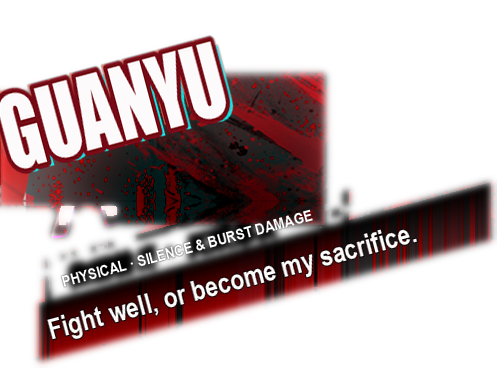
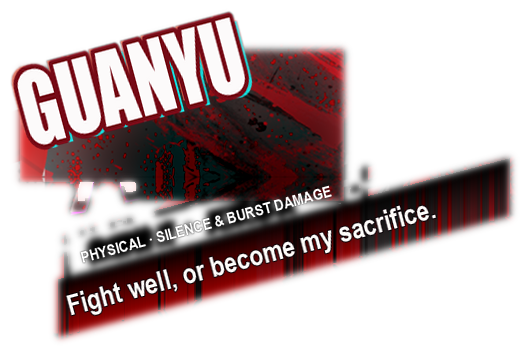
docs(memory): 测试服部署全链路 + AbstractActivity 奖励配置不存在判定口径

diff --git a/scripts/image/loading_plate_overlay.py b/scripts/image/loading_plate_overlay.py
@@ -37,6 +37,17 @@
 3. **排字**：标签用 Arial Bold 白字（红底），台词用深棕字 + 1px 浅米描边（亮底），
    按实测倾角跟随斜排；超宽自动降字号（`fit_font`）。
 
+🔴 **贴片 bbox 由「实际墨迹」反推，不由版面几何推**。斜排 15° + 纵向拉伸之后，大字
+   的左上角会跑到 `name_box` 的左外侧（h/2·sinθ）和上外侧（w·sinθ + h/2·cosθ）——
+   按 `name_box` / 红条几何算出来的贴片会把这两块裁掉，表现就是预览里字母顶一道
+   齐刷刷的直线（05 的 BRUTUS 曾切掉顶部 46px、左边 16px，03 切 26px、07 切 41px）。
+   现在的口径：
+   - 贴片 = 红条 ∪ 台词带 ∪ `name_box` ∪ `small_box` ∪ 擦除区 ∪ 三条线的墨迹，再外扩
+     `PLATE_PAD`，并夹在 684×2048 内；
+   - 大字另外受 `NAME_HEADROOM`（名字区上沿 = `name_box` 顶 - 92）约束，超出就降字号，
+     保证英文大字不会顶到画板上沿；
+   - `geom.json` 里的 `ink_clip_px` = 墨迹被画板边界削掉的像素，`verify` 会卡它必须为 0。
+
 🔴 中文名不翻、也不覆盖：九张图里中文名旁边本来就挂着英文名（Caesar / GuanYu /
    Mozart …），盖掉中文名反而丢了设计层级。贴片只碰红条与台词两行。
 
@@ -105,11 +116,16 @@ NAME_FONT_CANDIDATES = [
 ]
 
 FEATHER = 10          # 贴片 alpha 羽化宽度
+# 译文可能存在的语言。贴片 bbox 要对**这几种取并集**：`LoadingPlateGeom.lua` 一张图
+# 只存一组 anchor，运行时按图号取（见 LoadingPanel.ApplyLangPlate），没有按语言分表 ——
+# 贴片 bbox 一旦随译文长度变，换语言就整体错位/被裁。
+LANGS = ("en", "jp", "kr")
 BAR_PAD = 6           # 红条内擦字范围外扩（把描边/发光一起吞掉）
 BAND_TOP_INSET = 7    # 台词带的上沿往红条里吃的像素数：中文台词的句号比带子上沿还高
 NAME_BLEED = 17       # 大字擦除外扩：白描边 ≈8px + 青/品红错位 ≈6px + 抗锯齿
-NAME_HEADROOM = 92    # 贴片往上多留的高度：斜排+拉伸后的英文字会高出 name_box 很多
+NAME_HEADROOM = 92    # 名字区上沿到 name_box 顶边的余量：斜排大字越宽抬得越高，这条是硬上限
 NAME_LIFT = 14        # 英文大字整体上移，躲开斜条右端（斜条右端比左端高 100+px）
+PLATE_PAD = 6         # 贴片边界相对「几何区 ∪ 墨迹」再外扩的像素，别让字贴着裁切线
 
 # 实测版面（cn2-X1_loading_04_zh，684×2048）。红条是平行四边形：
 #   上边线 y = top_y_at_x_left + slope*(x - x_left)，高恒为 bar_h。
@@ -302,6 +318,22 @@ def line_layer(text: str, font, fill=(255, 255, 255, 255), stroke=2,
            stroke_width=stroke, stroke_fill=stroke_fill)
     bb = layer.split()[3].getbbox() or (0, 0, lw, lh)
     return layer, bb, ((bb[0] + bb[2]) / 2, (bb[1] + bb[3]) / 2)
+
+
+def layer_ink_quad(lay: Image.Image, anchor, ang: float, target) -> np.ndarray:
+    """图层**墨迹**四角经「绕 anchor 旋转 + 平移」后在底图坐标系里的位置。
+
+    用来反推贴片 bbox。🔴 必须用墨迹 bbox（alpha 外接框），不能用图层尺寸：
+       图层四周有 stroke+14 的透明留白，按图层算会把贴片撑大 30~40px，
+       而按几何（name_box / 红条）算又会把斜排溢出的那截字裁掉 —— 两头都不对。
+    """
+    bb = lay.split()[3].getbbox() or (0, 0, lay.width, lay.height)
+    corners = np.array([[bb[0], bb[1]], [bb[2], bb[1]],
+                        [bb[2], bb[3]], [bb[0], bb[3]]], np.float32)
+    M = cv2.getRotationMatrix2D(anchor, ang, 1.0)
+    M[0, 2] += target[0] - anchor[0]
+    M[1, 2] += target[1] - anchor[1]
+    return cv2.transform(corners[None], M)[0]
 
 
 def paste_rotated(dst: Image.Image, lay: Image.Image, anchor, ang: float, target) -> Image.Image:
@@ -588,6 +620,117 @@ def multiscale_fill(img: np.ndarray, mask: np.ndarray, levels: int = 5) -> np.nd
 
 
 # --------------------------------------------------------------------------- #
+# 排版（只排字，不碰底图）
+# --------------------------------------------------------------------------- #
+def build_lines(asset: str, lang: str, layout: dict, W: int, H: int,
+                q_fill=(255, 255, 255), q_stroke=(0, 0, 0)):
+    """按版面排三条线（大字 / 标签 / 台词），返回 [(图层, 锚点, 角度, 底图落点)]。
+
+    只排字、不碰底图像素：同一份结果既用来画贴片，也用来反推贴片 bbox（见 `plate_box`）。
+    颜色不影响墨迹外接框，所以量 bbox 时用默认色即可。
+
+    🔴 落点一律是**底图坐标**（不是贴片坐标）：贴片 bbox 要靠墨迹反推，而墨迹位置又
+       跟贴片原点无关 —— 先定落点、再定画布，顺序反过来就会自己咬自己。
+    """
+    entry = load_map().get(asset, {})
+    tag = entry.get(f"tag_{lang}") or ""
+    quote = entry.get(f"quote_{lang}") or ""
+    name = entry.get(f"name_{lang}") or ""
+    tilt = float(np.degrees(np.arctan(-layout["slope"])))
+    items = []
+
+    # 3z) 大号角色名：Impact 超粗压缩体 + 故障风错位
+    if name:
+        nb = [int(v) for v in layout["name_box"]]
+        # 🔴 宽度上限按**画板右边界**算，不按 small_box 算：小号英文名先被擦掉，那块横向
+        #    空间是空的；按 small_box 算会让 9 张的英文宽度从 245 到 415 不等、字号差一倍
+        #    （GUANYU 挤成小字、BRUTUS 撑成大字）。改成「高 145 + 不越出画板」双约束，
+        #    九张的英文字高就统一了。
+        max_w = name_max_w(layout, W)
+        # 整行上移 NAME_LIFT：红条是斜的，右端抬得比左端高 100+px，英文比中文宽之后
+        # 右端会顶到条上；上移一点点就能让整行稳稳落在条上方的空白带里。
+        tgt = (nb[0], (nb[1] + nb[3]) / 2 - NAME_LIFT)
+        ang = tilt if layout.get("name_angle") is None else float(layout["name_angle"])
+        # 🔴 缩到「旋转后真的不越出**名字区**」为止。fit_font 只管**没旋转**的墨迹
+        #    宽高，斜排 15° 之后整行右端会再抬高 w·sinθ，宽一个字母就多抬 10+px ——
+        #    05 的 BRUTUS 就这么顶出画板上沿 8px，03/07 顶出 26/41px。
+        #    NAME_HEADROOM 就是这条硬上限（名字区上沿 = name_box 顶 - 92），
+        #    以前只在算贴片 bbox 时用过、没约束字本身，所以字照样往外长。
+        top_limit = nb[1] - NAME_HEADROOM
+        start = 230
+        while True:
+            font = fit_font(name, max_w, 145, start=start, loader=load_name_font)
+            lay, anchor = name_layer(name, font, layout)
+            q = layer_ink_quad(lay, anchor, ang, tgt)
+            over = max(top_limit - q[:, 1].min(),
+                       -q[:, 0].min(), q[:, 0].max() - (W - 1),
+                       -q[:, 1].min(), q[:, 1].max() - (H - 1))
+            if over <= 0 or font.size <= 24:
+                break
+            start = max(24, font.size - max(1, int(round(over))))
+        items.append((lay, anchor, ang, tgt))
+
+    # 3a) 定位标签：贴着红条左端进一点，垂直居中于条带
+    if tag:
+        tx = layout["x_left"] + 12
+        font = fit_font(tag, int(layout["x_right"] - tx - 12),
+                        int(layout["bar_h"] * 0.62), start=int(layout["bar_h"] * 0.52))
+        lay, bb, ink_c = line_layer(tag, font, stroke=0, stroke_fill=(112, 16, 8, 255))
+        # 左中点对齐：标签左端钉在条带左端的中心线上
+        items.append((lay, (bb[0], ink_c[1]), tilt,
+                      (tx, top_y(layout, tx) + layout["bar_h"] / 2)))
+
+    # 3b) 台词：红条下边线往下 quote_h 的带子，左端对齐
+    if quote:
+        qx_left = layout["quote_x_left"] + 10
+        font = fit_font(quote, int(layout["quote_x_right"] - qx_left - 8),
+                        int(layout["quote_h"] * 0.72), start=int(layout["quote_h"] * 0.56))
+        # 描边只给 1px：描边过粗会把 20px 的字芯整个包住、看起来变成白字。
+        lay, bb, ink_c = line_layer(quote, font, fill=tuple(q_fill) + (255,), stroke=1,
+                                    stroke_fill=tuple(q_stroke) + (255,))
+        # 左中点对齐（见 paste_rotated 注释）：台词左端钉在带子左端的中心线上
+        items.append((lay, (bb[0], ink_c[1]), tilt,
+                      (qx_left, bot_y(layout, qx_left) + layout["quote_h"] / 2)))
+    return items
+
+
+def plate_box(asset: str, layout: dict, W: int, H: int, changed: np.ndarray | None = None):
+    """贴片 bbox（底图像素）＝ 红条 ∪ 台词带 ∪ 擦除区 ∪ **所有语言**的墨迹，再外扩 PLATE_PAD。
+
+    🔴 必须对 `LANGS` 全部取并集，不能只按当前语言算：`LoadingPlateGeom.lua` 一张图
+       只存一组 anchor，运行时按图号取（LoadingPanel.ApplyLangPlate），没有按语言分表。
+       bbox 跟着译文长度变，换语言就整体错位或被裁。所以小字擦除框也按「最长译名」
+       推（见 render），保证擦除区同样与语言无关。
+
+    🔴 墨迹要按**旋转后**的四边形算（`layer_ink_quad`）：斜排 15° + 纵向拉伸后，
+       大字的左上角会跑到 name_box 的左外侧（h/2·sinθ）和上外侧（w·sinθ + h/2·cosθ）。
+       按几何推的贴片会把这两块裁掉 —— 实测 05 的 BRUTUS 顶部被切 46px、左边 16px
+       （字母顶是一道齐刷刷的直线），03 切 26px、07 切 41px。
+    """
+    pb, pq = poly_bar(layout), poly_quote(layout)
+    pts = [pb, pq]
+    for key in ("name_box", "small_box"):
+        b = layout.get(key)
+        if b:
+            bx0, by0, bx1, by1 = [float(v) for v in b]
+            pts.append(np.array([[bx0, by0], [bx1, by0], [bx1, by1], [bx0, by1]], np.float32))
+    if changed is not None:
+        ys_c, xs_c = np.nonzero(changed)     # grow_mask 可能长出 name_box 30px
+        if ys_c.size:
+            pts.append(np.array([[xs_c.min(), ys_c.min()], [xs_c.max() + 1, ys_c.min()],
+                                 [xs_c.max() + 1, ys_c.max() + 1], [xs_c.min(), ys_c.max() + 1]],
+                                np.float32))
+    for lang in LANGS:
+        for lay, anchor, ang, tgt in build_lines(asset, lang, layout, W, H):
+            pts.append(layer_ink_quad(lay, anchor, ang, tgt))
+    allp = np.vstack(pts)
+    return (max(0, int(np.floor(allp[:, 0].min())) - PLATE_PAD),
+            max(0, int(np.floor(allp[:, 1].min())) - PLATE_PAD),
+            min(W, int(np.ceil(allp[:, 0].max())) + PLATE_PAD),
+            min(H, int(np.ceil(allp[:, 1].max())) + PLATE_PAD))
+
+
+# --------------------------------------------------------------------------- #
 # 主流程
 # --------------------------------------------------------------------------- #
 def render(asset: str, lang: str, layout: dict) -> dict:
@@ -602,10 +745,14 @@ def render(asset: str, lang: str, layout: dict) -> dict:
     quote = entry.get(f"quote_{lang}") or ""
     name = entry.get(f"name_{lang}") or ""
 
-    # 小字的擦除框跟着大字推（见 derive_small_box），不依赖 layout 里手写的值
-    if name and not layout.get("small_box"):
+    # 小字的擦除框跟着大字推（见 derive_small_box），不依赖 layout 里手写的值。
+    # 🔴 按**所有语言里最长的译名**推：擦除框一变，贴片 bbox 就跟着变，而 anchor 是
+    #    一张图一组（不按语言分表），所以这块必须与语言无关。
+    names = [entry.get(f"name_{l}") or "" for l in LANGS]
+    longest = max(names, key=len) if any(names) else ""
+    if longest and not layout.get("small_box"):
         layout = dict(layout)
-        layout["small_box"] = derive_small_box(layout, name, W)
+        layout["small_box"] = derive_small_box(layout, longest, W)
 
     pb, pq = poly_bar(layout), poly_quote(layout)
 
@@ -661,83 +808,27 @@ def render(asset: str, lang: str, layout: dict) -> dict:
     else:
         q_fill, q_stroke = (252, 250, 246), (24, 14, 20)      # 暗底：白字深描边
 
-    # --- 3) 贴片画布：先放干净背景，再叠译文 ------------------------------- #
-    # 上边界要多留 NAME_HEADROOM：斜排 + 纵向拉伸后的英文字会高出 name_box 不少，
-    # 贴片 bbox 卡在 name_box 上的话字顶会被裁掉（实测「GUANYU」上半截直接没了）。
-    nb = [int(v) for v in layout["name_box"]]
-    top = nb[1] - NAME_HEADROOM
-    right = max(nb[2], nb[0] + name_max_w(layout, W) + 14)
-    corners = [[nb[0], top], [right, top], [right, nb[3]], [nb[0], nb[3]]]
-    sb = layout.get("small_box")
-    if sb:
-        corners += [[sb[0], sb[1]], [sb[2], sb[1]], [sb[2], sb[3]], [sb[0], sb[3]]]
-    pts = np.vstack([pb, pq, np.array(corners, dtype=np.float32)])
-    x0 = max(0, int(np.floor(pts[:, 0].min())) - 2)
-    y0 = max(0, int(np.floor(pts[:, 1].min())) - 2)
-    x1 = min(W, int(np.ceil(pts[:, 0].max())) + 2)
-    y1 = min(H, int(np.ceil(pts[:, 1].max())) + 2)
+    # --- 3) 排版：先在**底图坐标**里算三条线的落点，拿到各自的墨迹范围 ----- #
+    ink_items = build_lines(asset, lang, layout, W, H, q_fill, q_stroke)
+
+    # --- 4) 贴片画布 = 几何区 ∪ 擦除区 ∪ 三条线的墨迹（全语言并集）-------- #
+    x0, y0, x1, y1 = plate_box(asset, layout, W, H, changed)
     pw, ph = x1 - x0, y1 - y0
+
+    # 墨迹被**画板**边界（不是贴片边界）削掉多少：>0 说明这行字本身超出了 684×2048
+    # 的画板，贴片再大也救不回来，只能改字号或缩短文案。写进 geom 供 verify 卡。
+    ink_clip = 0
+    for lay, anchor, ang, tgt in ink_items:
+        q = layer_ink_quad(lay, anchor, ang, tgt)
+        ink_clip = max(ink_clip,
+                       int(max(0, -q[:, 0].min())), int(max(0, q[:, 0].max() - (W - 1))),
+                       int(max(0, -q[:, 1].min())), int(max(0, q[:, 1].max() - (H - 1))))
 
     plate = Image.fromarray(cv2.cvtColor(clean[y0:y1, x0:x1], cv2.COLOR_BGR2RGB)).convert("RGBA")
     ink = Image.new("RGBA", plate.size, (0, 0, 0, 0))     # 译文单独一层，最后取 alpha
-    tilt = float(np.degrees(np.arctan(-layout["slope"])))
-
-    # 3z) 大号角色名：Impact 超粗压缩体 + 故障风错位
-    #     左端对齐原中文大字的左边界、宽度吃到小号英文名的右边界 —— 小字已经被擦掉，
-    #     这块横向空间空着，正好让英文大字用满，不必挤在中文字符框里。
-    if name:
-        nb = [int(v) for v in layout["name_box"]]
-        left = nb[0]
-        # 🔴 宽度上限按**画板右边界**算，不按 small_box 算：小号英文名先被擦掉，那块横向
-        #    空间是空的；按 small_box 算会让 9 张的英文宽度从 245 到 415 不等、字号差一倍
-        #    （GUANYU 挤成小字、BRUTUS 撑成大字）。改成「高 100 + 不越出画板」双约束，
-        #    九张的英文字高就统一了。
-        max_w = name_max_w(layout, W)
-        font = fit_font(name, max_w, 145, start=230, loader=load_name_font)
-        lay, anchor = name_layer(name, font, layout)
-        ang = tilt if layout.get("name_angle") is None else float(layout["name_angle"])
-
-        # 绕锚点旋转 + 把锚点搬到目标点，一次仿射完成 —— 不用 rotate(expand=True)：
-        # expand 会按外接矩形放大画布，之后任何基于 bbox 的对齐都会被「空白边」带偏
-        # （实测整体下沉 17~30px，英文底边压到红条上）。PIL 的 AFFINE 系数是
-        # 「输出坐标 → 输入坐标」的反向映射，所以传逆矩阵。
-        # 整行再上移 NAME_LIFT：红条是斜的，右端抬得比左端高 100+px，英文比中文宽之后
-        # 右端会顶到条上；上移一点点就能让整行稳稳落在条上方的空白带里。
-        tgt = (left - x0, (nb[1] + nb[3]) / 2 - y0 - NAME_LIFT)
-        M = cv2.getRotationMatrix2D(anchor, ang, 1.0)
-        M[0, 2] += tgt[0] - anchor[0]
-        M[1, 2] += tgt[1] - anchor[1]
-        Mi = cv2.invertAffineTransform(M)
-        warped = lay.transform(plate.size, Image.AFFINE,
-                               (Mi[0, 0], Mi[0, 1], Mi[0, 2],
-                                Mi[1, 0], Mi[1, 1], Mi[1, 2]),
-                               resample=Image.BICUBIC)
-        ink = Image.alpha_composite(ink, warped)
-
-    # 3a) 定位标签：贴着红条左端进一点，垂直居中于条带
-    if tag:
-        inset = 12
-        tx = layout["x_left"] + inset
-        max_w = int(layout["x_right"] - tx - 12)
-        font = fit_font(tag, max_w, int(layout["bar_h"] * 0.62), start=int(layout["bar_h"] * 0.52))
-        lay, bb, ink_c = line_layer(tag, font, stroke=0,
-                                    stroke_fill=(112, 16, 8, 255))
-        # 左中点对齐：标签左端钉在条带左端的中心线上（target 一律是贴片内坐标，要减 x0/y0）
-        ink = paste_rotated(ink, lay, (bb[0], ink_c[1]), tilt,
-                            (tx - x0, top_y(layout, tx) + layout["bar_h"] / 2 - y0))
-
-    # 3b) 台词：红条下边线往下 quote_h 的带子，左端对齐
-    if quote:
-        qx_left = layout["quote_x_left"] + 10
-        max_w = int(layout["quote_x_right"] - qx_left - 8)
-        font = fit_font(quote, max_w, int(layout["quote_h"] * 0.72),
-                        start=int(layout["quote_h"] * 0.56))
-        # 描边只给 1px：描边过粗会把 20px 的字芯整个包住、看起来变成白字。
-        lay, bb, ink_c = line_layer(quote, font, fill=q_fill + (255,), stroke=1,
-                                    stroke_fill=q_stroke + (255,))
-        # 左中点对齐（见 paste_rotated 注释）：台词左端钉在带子左端的中心线上
-        ink = paste_rotated(ink, lay, (bb[0], ink_c[1]), tilt,
-                            (qx_left - x0, bot_y(layout, qx_left) + layout["quote_h"] / 2 - y0))
+    # 落点从底图坐标换算成贴片坐标再画（同一个仿射：绕锚点旋转 + 平移到落点）
+    for lay, anchor, ang, tgt in ink_items:
+        ink = paste_rotated(ink, lay, anchor, ang, (tgt[0] - x0, tgt[1] - y0))
 
     plate = Image.alpha_composite(plate, ink)
     text_a = np.array(ink.split()[3])
@@ -777,6 +868,8 @@ def render(asset: str, lang: str, layout: dict) -> dict:
         "plate_bbox": [x0, y0, pw, ph],
         "anchor_min": [round(x0 / W, 6), round(1 - y1 / H, 6)],
         "anchor_max": [round(x1 / W, 6), round(1 - y0 / H, 6)],
+        # 墨迹被画板边界削掉的像素数（0 = 三条线都完整落在 684×2048 内）
+        "ink_clip_px": ink_clip,
         "layout": {k: (round(v, 4) if isinstance(v, float) else v) for k, v in layout.items()},
     }
     with open(os.path.join(out_dir, "geom.json"), "w", encoding="utf-8") as f:
@@ -799,7 +892,8 @@ LUA_GEOM = os.path.join(ROOT, "Assets/ManagedResources/~Lua/Modules/Message/Load
 
 LUA_GEOM_TPL = """-- 由 scripts/image/loading_plate_overlay.py publish 自动生成，勿手改。
 -- 铭牌贴片在底图中的归一化锚点（anchorMin / anchorMax），运行时挂到 LoadBg/pic 的子节点上。
--- 贴片尺寸与语言无关（bbox 由版面几何决定，不含文字），所以一张图只需一组。
+-- 一张图只存一组：bbox = 版面几何 ∪ **所有语言**译文的墨迹并集（见 plate_box），
+-- 所以每种语言的贴片尺寸完全一致，运行时不用按语言分表。
 return {{
 {body}}}
 """
@@ -989,9 +1083,14 @@ def verify(asset: str, lang: str) -> int:
     checks = [
         ("底图尺寸与登记一致", (W, H) == (sw, sh)),
         ("贴片宽高与 bbox 一致", plate.size == (bw, bh)),
-        ("贴片占底图 < 15% 面积", (bw * bh) / (W * H) < 0.15),
+        # 贴片现在由「几何 ∪ 墨迹」反推，斜排大字会把上沿撑高（05/07 顶到 y=0），
+        # 面积上限从 15% 放到 25%：这条只是防呆（别退化成整图覆盖），不是设计约束。
+        ("贴片占底图 < 25% 面积", (bw * bh) / (W * H) < 0.25),
         ("贴片体积 < 底图 30%", os.path.getsize(pp) < os.path.getsize(src) * 0.30),
         ("anchor 落在底图内", 0 <= geom["anchor_min"][0] < geom["anchor_max"][0] <= 1),
+        # 🔴 最重要的一条：三条线的墨迹必须完整落在画板内。>0 说明字被裁了，
+        #    表现就是预览里字母顶/尾齐刷刷一条直线（05 的 BRUTUS 曾切掉 46px）。
+        ("文字未越出画板（未被裁切）", geom.get("ink_clip_px", 0) == 0),
         ("alpha 有透明区（能叠）", al.min() == 0),
         ("alpha 有不透明主体", al.max() == 255),
         ("不透明像素占比 < 70%", (al > 200).mean() < 0.7),   # 不透明区 = 擦除框+条+带，03 实测 60.6%

diff --git a/.workbuddy/memory/2026-10-22.md b/.workbuddy/memory/2026-10-22.md
@@ -1,0 +1,28 @@
+# 2026-10-22
+
+## R14+R15 付费配置部署本地测试服（00:10~00:20，Jenkins `TS-Resource-Build` #18）
+
+- 链路：触发 `TS-Resource-Build`（`EXPORT_TABLES=true SYNC_BYTES=true REBUILD_AB=true SERVER_ENV=测试服`，
+  逐字段传参）→ 产物 copy 回开发目录 → 两张 txt 部署 `~/home/java/gameserver/conf/server/` +
+  `assets/conf/server/`（先备份 `.bak-20261022-001052/`）→ `start-local.sh restart gs`。
+- #18 SUCCESS，AB 体检 7 环节全绿；导表产物抽查全对：35001 `16#384`（+150 钻）、6202 `16#330`（+20）、
+  102-105 已 `1#999#999`、LuckyCat 第 8 轮 `10888/12195`、903/904 行在（公式缓存修复有效）。
+- md5 对账：Recharge `1a8eb7c4`、LuckyCat `9fffed99`（build → dev skzc → 测试服 conf + assets 六处一致）。
+- 提交：客户端 `d1de2a78e`（lua+bytes 成对 + skzc 两表）、服务端 `3a2ce17b`（server_game/conf 两表），均已推。
+- 🔴 **客户端仓跟踪 `TimeSpaceServer/skzc/` 全部 406 张表**（导表产物落点之一），服务端仓另有一份
+  `server_game/conf/server/`——两边都要提交。build clone 的 `TimeSpaceServer/` 结构与 dev 不同
+  （只有 Server_x1tag1.2.2，skzc 是平铺跟踪），且 **skzc 导表产物会被后续构建清掉**，导完立刻拷走。
+- 提交前先核 `TS-Android-TestPackage` 夜间包的 SERVER_ENV 默认是「现网-129.226.213.65」，
+  测试服口径必须显式传参。
+
+## 启动日志 6 条 `AbstractActivity 奖励配置不存在33000/33003/33005` —— 判定非本次引入
+
+- 报错点 `AbstractActivity.java:203/274`：按 **GlobalActivity 活动 id** 查 `ActivityRewardConfig`，
+  查不到记 error 后 `return`（玩家无感、不炸）。
+- 33000/33003/33005 是 **2021-11 就过期**的活动行：测试服 GlobalActivity.txt（并行会话 19:20 部署）有壳、
+  ActivityRewardConfig（15:10 版）无行。
+- 时序铁证：重启前 23:59（旧 gs 进程，内存里是 19:20 前的旧 GlobalActivity）报的是另一批 id（31004）；
+  00:10 重启后新 GlobalActivity 生效才扫到 33000 这批 ⇒ 是并行会话部署活动表带出的存量脏数据，
+  不是两张付费表的问题。表加载分段（STableManager initMap）0 错误。
+- 测试服验证四点待玩家实测：成长基金只剩 101 可买、18 元 ST8 三包 3.75 抽、12 元 ST24 三包 2.50 抽、
+  648 同页签重复条目只显示一个；招财猫第 8 轮摇出值应在 10888~12195。

diff --git a/.workbuddy/memory/REF-local-server.md b/.workbuddy/memory/REF-local-server.md
@@ -194,3 +194,13 @@ curl -s "http://127.0.0.1:8081/tk/getServerList?openId=7e65e2241bd6bd2bef8fbed63
 - 换表流程：备份 `~/home/java/gameserver/table-backup-<ts>/{conf,assets_*}*.txt` → 覆盖
   `gameserver/conf/server/` **和** `gameserver/assets/conf/server/` 两处 → 重启 → 查 `run-gs.log`
   有无 `clazz = [class config.SXxx]` / `NumberFormatException`（有 = 表格式不对，别等玩家报错）。
+- 全自动链路（2026-10-22 实测，R14+R15 付费表）：触发 Jenkins `TS-Resource-Build`
+  （`EXPORT_TABLES=true SYNC_BYTES=true REBUILD_AB=true SERVER_ENV=测试服`，逐字段传参）→
+  从 build clone 拷 `Config lua + _64.bytes + 服务端 txt` 回开发目录 → txt 覆盖测试服两处 →
+  `restart gs` → 启动分段查 `STableManager`/`initActivity` 无错。🔴 **客户端仓跟踪
+  `TimeSpaceServer/skzc/` 全部 406 张表**，服务端仓另有一份 `server_game/conf/server/`，两边都要提交；
+  build clone 里的 skzc 导表产物会被后续构建清掉，导完立刻拷走。
+- 🔴 启动后见 `AbstractActivity 奖励配置不存在<活动id>` ≠ 新表坏了：那是按 GlobalActivity 活动 id 查
+  `ActivityRewardConfig` 查不到（`AbstractActivity.java:203/274`），记 error 后优雅 return，玩家无感。
+  根因是 GlobalActivity 有 2021 年死行（有壳没奖励）——报错 id 集合随「哪份 GlobalActivity 在内存里」
+  变化，重启前后 id 不同不代表刚部署的表有问题；判据看 STableManager 加载分段是否干净。
